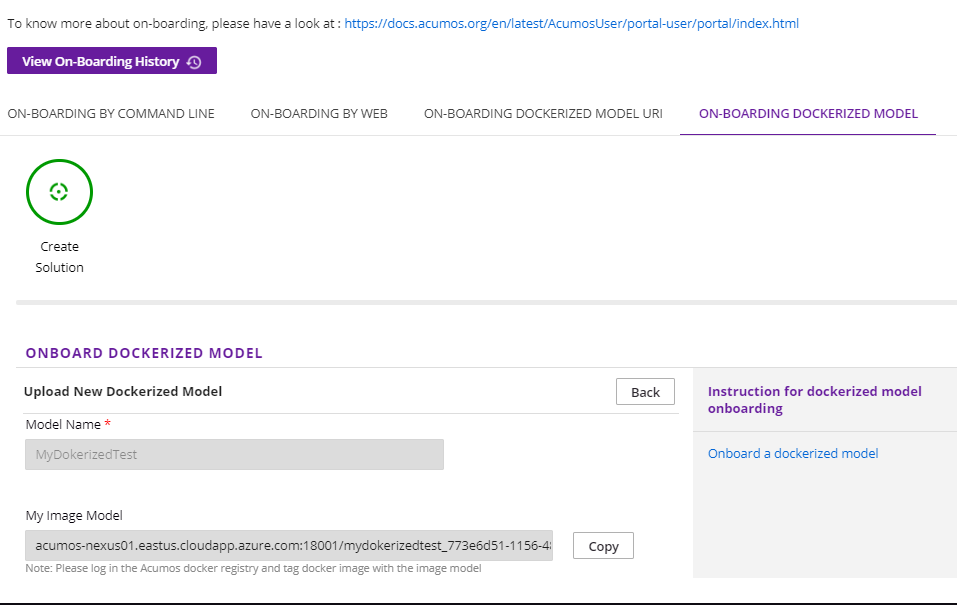
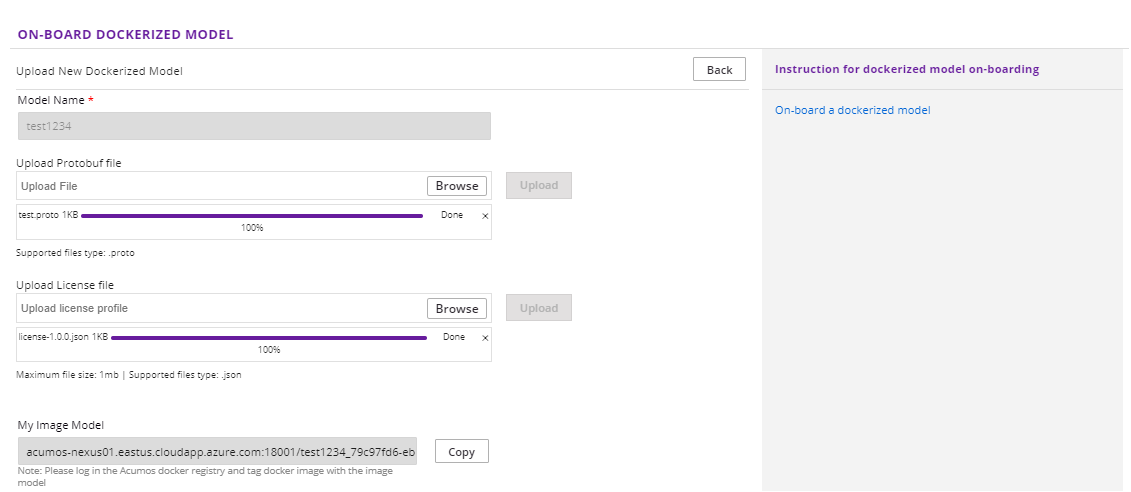
Documentation for uploading Protobuf/License file

diff --git a/docs/user-guides/portal-user/portal/portal-onboarding-dockerized-model.rst b/docs/user-guides/portal-user/portal/portal-onboarding-dockerized-model.rst
@@ -30,7 +30,19 @@ panel in the **on-boarding model** page of the Acumos portal.In this panel you c
 - Upload New 
 
 When you click **Upload New** button , you will get **Model Name** field, just type the desired name of the model
-and click on **Check Availability** to check whether the model name is available. Click the **Create Docker Image Reference** 
+and click on **Check Availability** to check whether the model name is available.
+
+If model name is available, It will ask you for Upload Protobuf file and Upload License file. It is optional.
+	
+	.. image:: ../images/portal/onboarding-dockerized-model-license.PNG
+                 :width: 75%
+				 
+Now Upload Protobuf file with an extension of **.proto** and Upload License file with an extension of **.json**
+
+	.. image:: ../images/portal/onboarding-dockerized-model-license-browse.PNG
+                 :width: 75%
+
+Click the **Create Docker Image Reference** 
 button which is shown after name validation. 
 
 	.. image:: ../images/portal/onboarding-dockerized-model-new.PNG
@@ -38,8 +50,7 @@ button which is shown after name validation.
 
 - Upload Revision
 
-When you click on **Upload Revision** button, you can search the existing model and select that model. You can Click on  
-**Update Docker Image Reference**  button which is shown after selecting your model.
+When you click on **Upload Revision** button, you can search the existing model and select that model. It will ask you for Upload Protobuf file and Upload License file. It is optional. You can Click on **Update Docker Image Reference**  button which is shown after selecting your model.
 
 	.. image:: ../images/portal/onboarding-dockerized-model-uploadrev.PNG
                  :width: 75%
